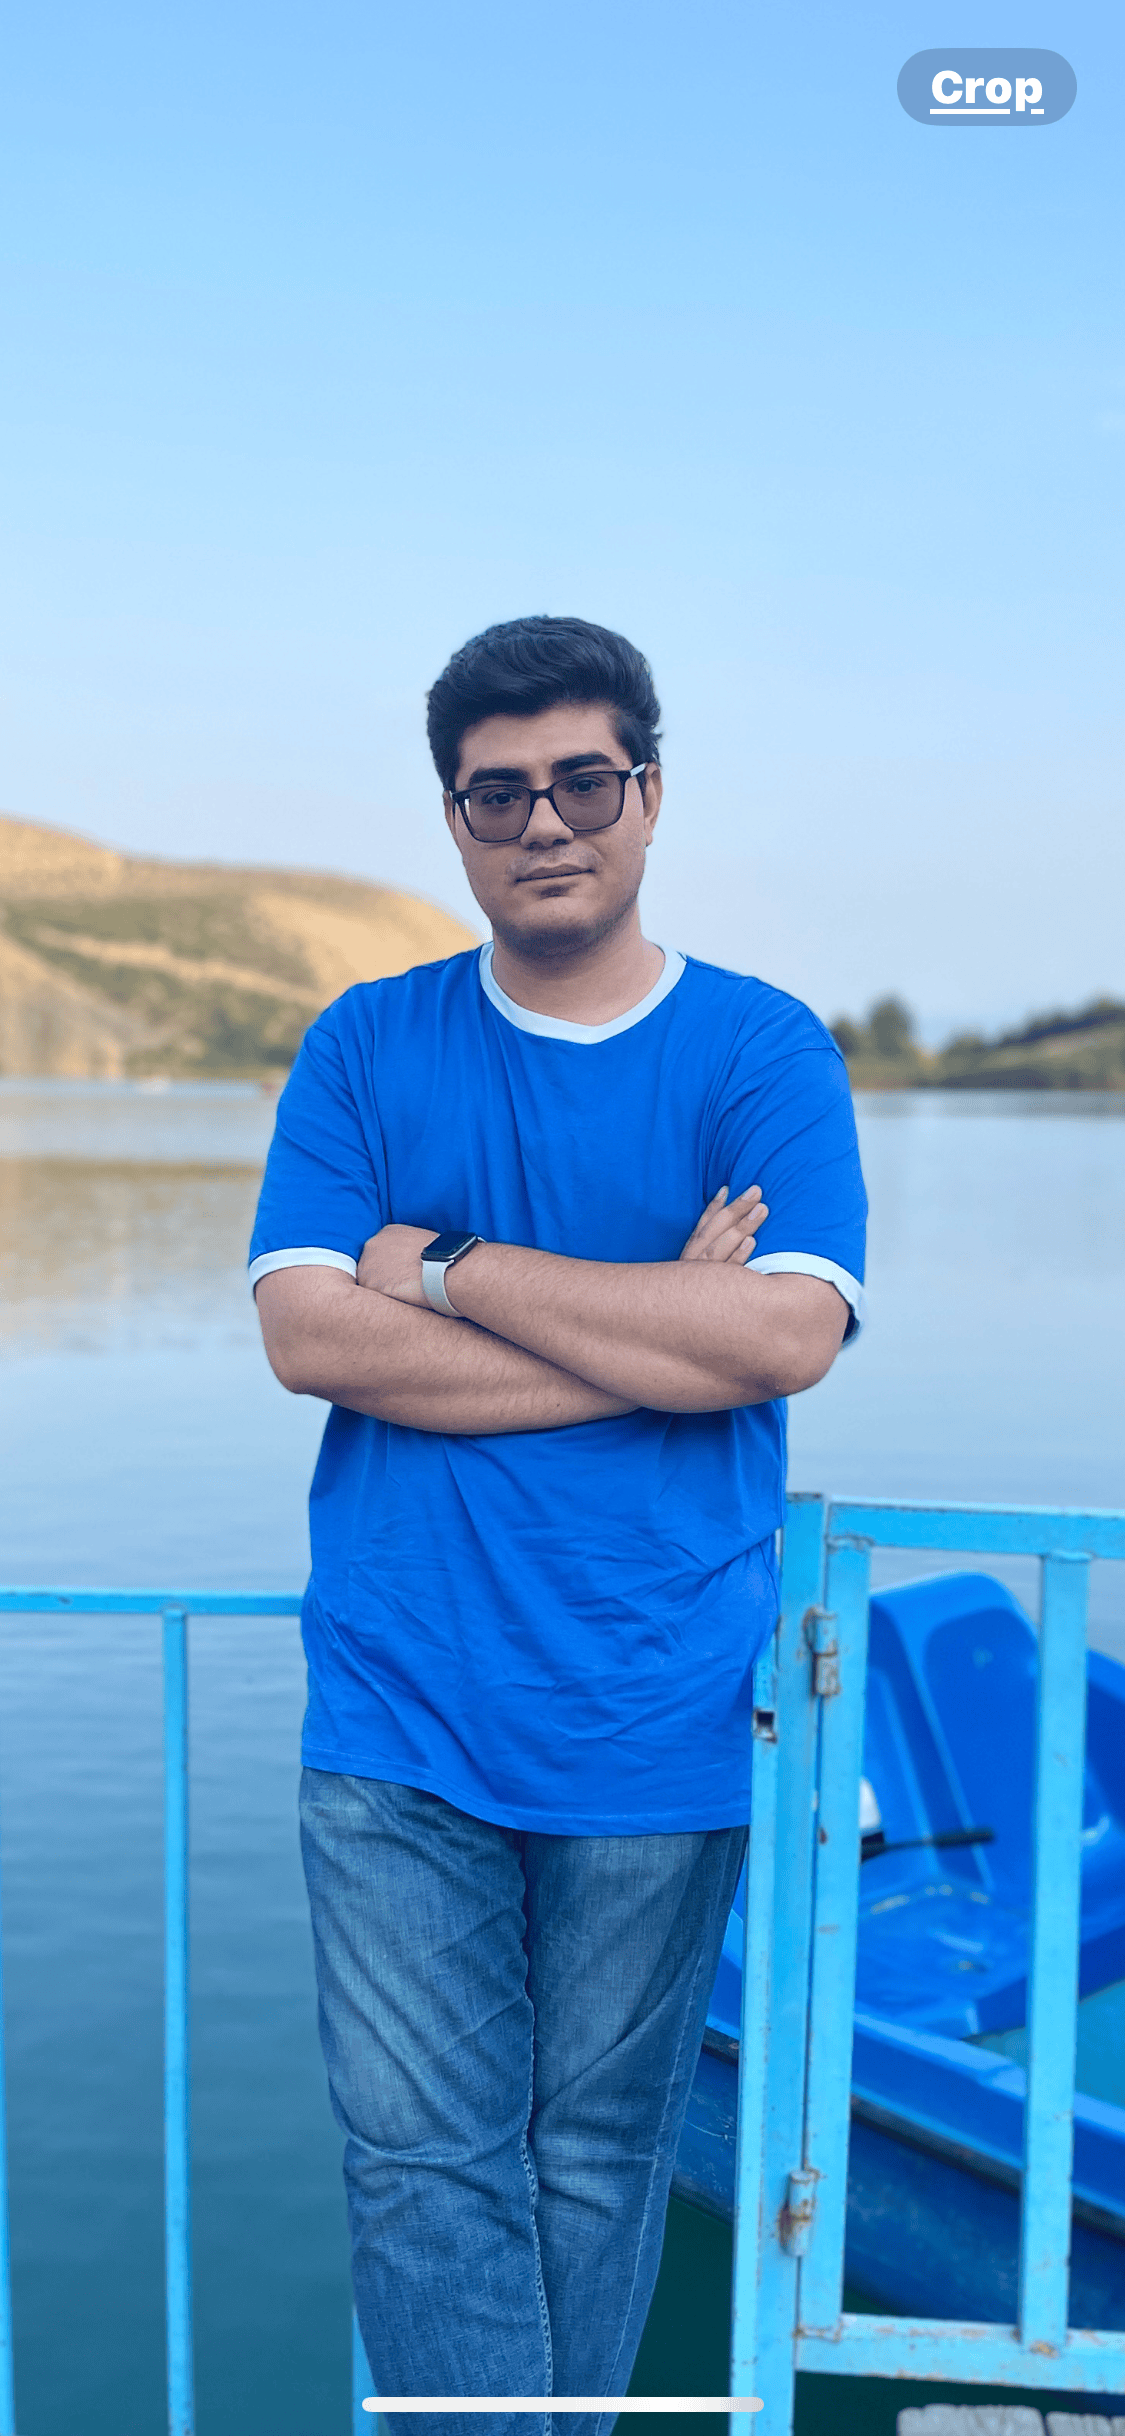
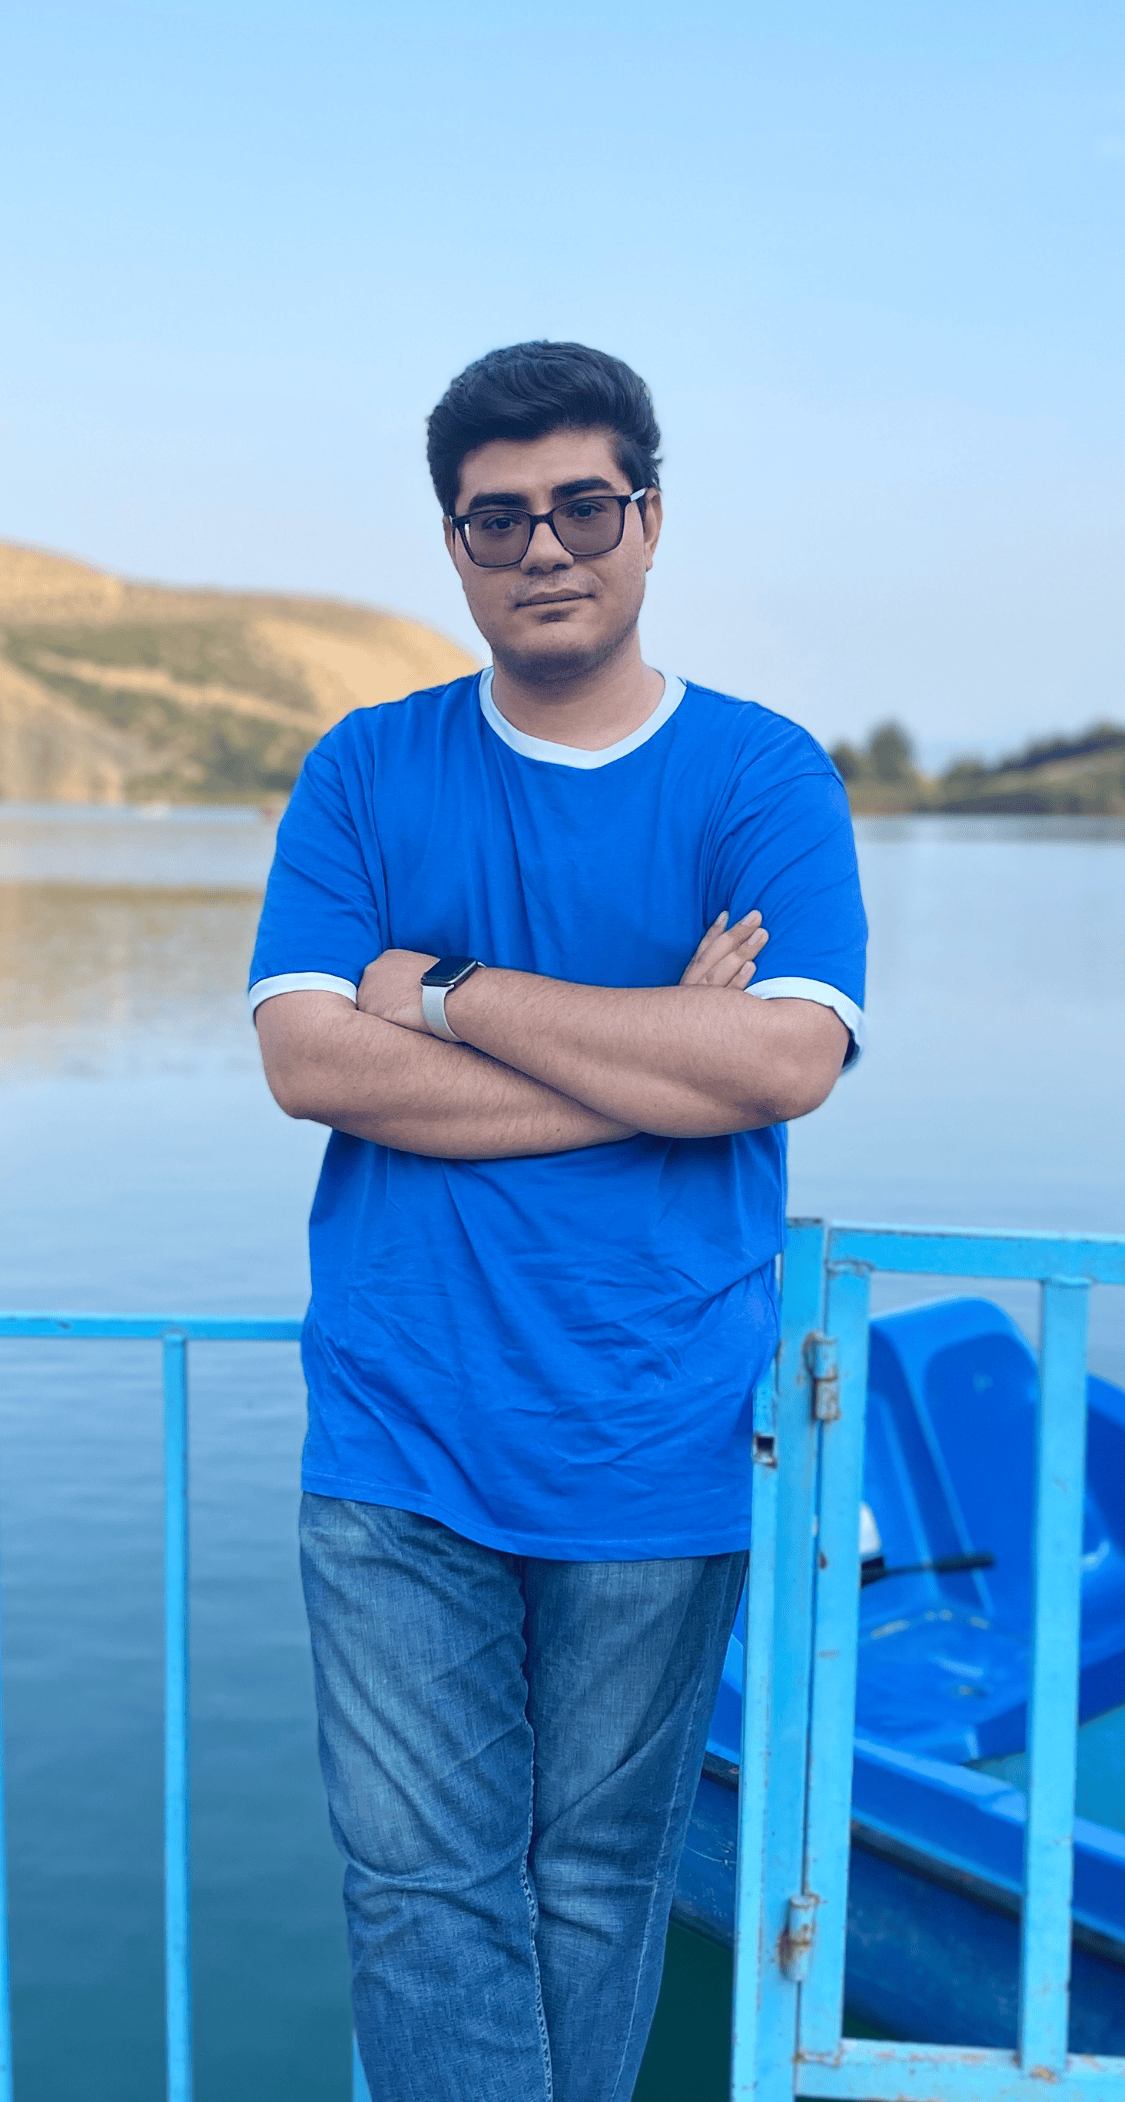
this update for  fun

diff --git a/style.css b/style.css
@@ -5,50 +5,60 @@ body {
   background: #2e80a2;
 }
 img {
-  width: 100px;
-  height: 100px;
-  margin: 50px;
-  z-index: 1 !important ;
+  height: 650px;
+  width: 400px;
+  margin-left: -7%;
+  margin-top: 8%;
+  border-radius: 20px;
+}
+h1 {
+  text-align: center;
+  font-size: 50px;
+  color: #fff;
+  position: absolute;
+  top: 2%;
+  left: 52%;
+  transform: translate(-50%, -50%);
 }
 
 .heart {
-    height: 100vh;
-    width: 100px;
-    height: 100px;
-    background: red;
-    margin: 20% 0 0 0;
-    animation: beat 1s ease-in-out infinite;
+  height: 100vh;
+  width: 100px;
+  height: 100px;
+  background: red;
+  margin: 6% 0 0 -17%;
+  animation: beat 1s ease-in-out infinite;
 }
 
 .heart::before,
 .heart::after {
-    content: "";
-    width: 100px;
-    height: 100px;
-    background-color: red;
-    border-radius: 50px;
-    position: absolute;
+  content: "";
+  width: 100px;
+  height: 100px;
+  background-color: red;
+  border-radius: 50px;
+  position: absolute;
 }
 
 .heart::before {
-    top: -50px;
-    left: 0;
+  top: -50px;
+  left: 0;
 }
 .heart::after {
-    top: 0;
-    left: 50px;
+  top: 0;
+  left: 50px;
 }
 
 @keyframes beat {
-    0% {
-        transform: scale(1) rotate(-45deg);
-    }
-    50% {
-        transform: scale(0.6) rotate(-45deg);
-    }
-    100% {
-        transform: scale(1) rotate(-45deg);
-    }
+  0% {
+    transform: scale(1) rotate(-45deg);
+  }
+  50% {
+    transform: scale(0.6) rotate(-45deg);
+  }
+  100% {
+    transform: scale(1) rotate(-45deg);
+  }
 }
 
 /* customizable snowflake styling */

diff --git a/index.html b/index.html
@@ -21,13 +21,13 @@
         color: #fff;
         position: absolute;
         top: 5%;
-        left: 32%;
+        left: 21%;
         transform: translate(-50%, -50%);
       }
     </style>
   </head>
   <body>
-    <h1 class="animate__animated animate__lightSpeedInRight">🤔به نظرت داخل جعبه چیه</h1>
+    <h1 class="animate__animated animate__lightSpeedInRight">🤔به نظرت داخل جعبه چی می تونه باشه</h1>
     <div>
       <a href="index2.html">
         <img src="images/1f381.png" alt="gift" />

diff --git a/index3.html b/index3.html
@@ -21,13 +21,13 @@
         color: #fff;
         position: absolute;
         top: 5%;
-        left: 29%;
+        left: 31%;
         transform: translate(-50%, -50%);
       }
     </style>
   </head>
   <body>
-    <h1 class="animate__animated animate__lightSpeedInRight">🫤 ای بابا نکنه سرکارمون گزاشته</h1>
+    <h1 class="animate__animated animate__lightSpeedInRight">🤔 شایدم سر کارت گذاشتم</h1>
     <div>
       <a href="index4.html">
         <img src="images/1f381.png" alt="gift" />

diff --git a/index5.html b/index5.html
@@ -21,13 +21,13 @@
         color: #fff;
         position: absolute;
         top: 5%;
-        left: 32%;
+        left: 37%;
         transform: translate(-50%, -50%);
       }
     </style>
   </head>
   <body>
-    <h1 class="animate__animated animate__lightSpeedInRight">😮💨 چرا تموم نمیشه جعبه ها</h1>
+    <h1 class="animate__animated animate__lightSpeedInRight">😮💨 برو بیینیم چیه </h1>
     <div>
       <a href="final.html">
         <img src="images/1f381.png" alt="gift" />

diff --git a/index4.html b/index4.html
@@ -21,13 +21,13 @@
         color: #fff;
         position: absolute;
         top: 5%;
-        left: 40%;
+        left: 33%;
         transform: translate(-50%, -50%);
       }
     </style>
   </head>
   <body>
-    <h1 class="animate__animated animate__lightSpeedInRight">🤡 فکر کنم پوچ</h1>
+    <h1 class="animate__animated animate__lightSpeedInRight">🤡 شایدم یه سوپرایز باشه  </h1>
     <div>
       <a href="index5.html">
         <img src="images/1f381.png" alt="gift" />

diff --git a/final.html b/final.html
@@ -7,7 +7,8 @@
     <link rel="stylesheet" href="style.css" />
   </head>
   <body>
-    <h1>🥰 عه قلب سازنده این کد که داره میتپه</h1>
+    <h1>☺🌹</h1>
+    <img src="images/IMG_5741.PNG" alt="">
 
     <div class="heart"></div>
 
@@ -242,5 +243,6 @@
       <div class="snowflake">❄</div>
       <div class="snowflake">❄</div>
     </div>
+    <br><br>
   </body>
 </html>
